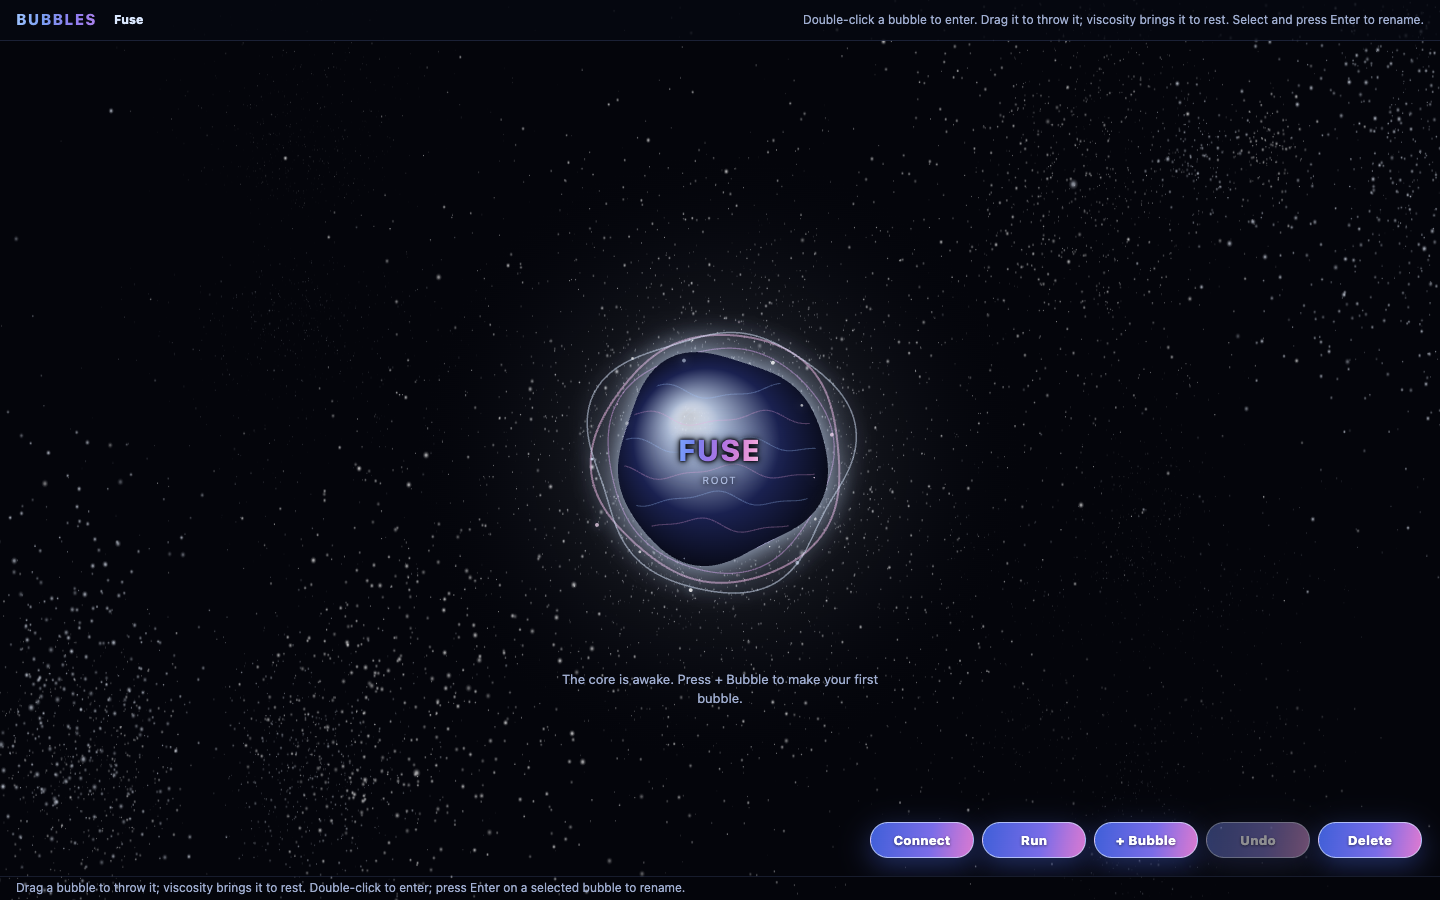
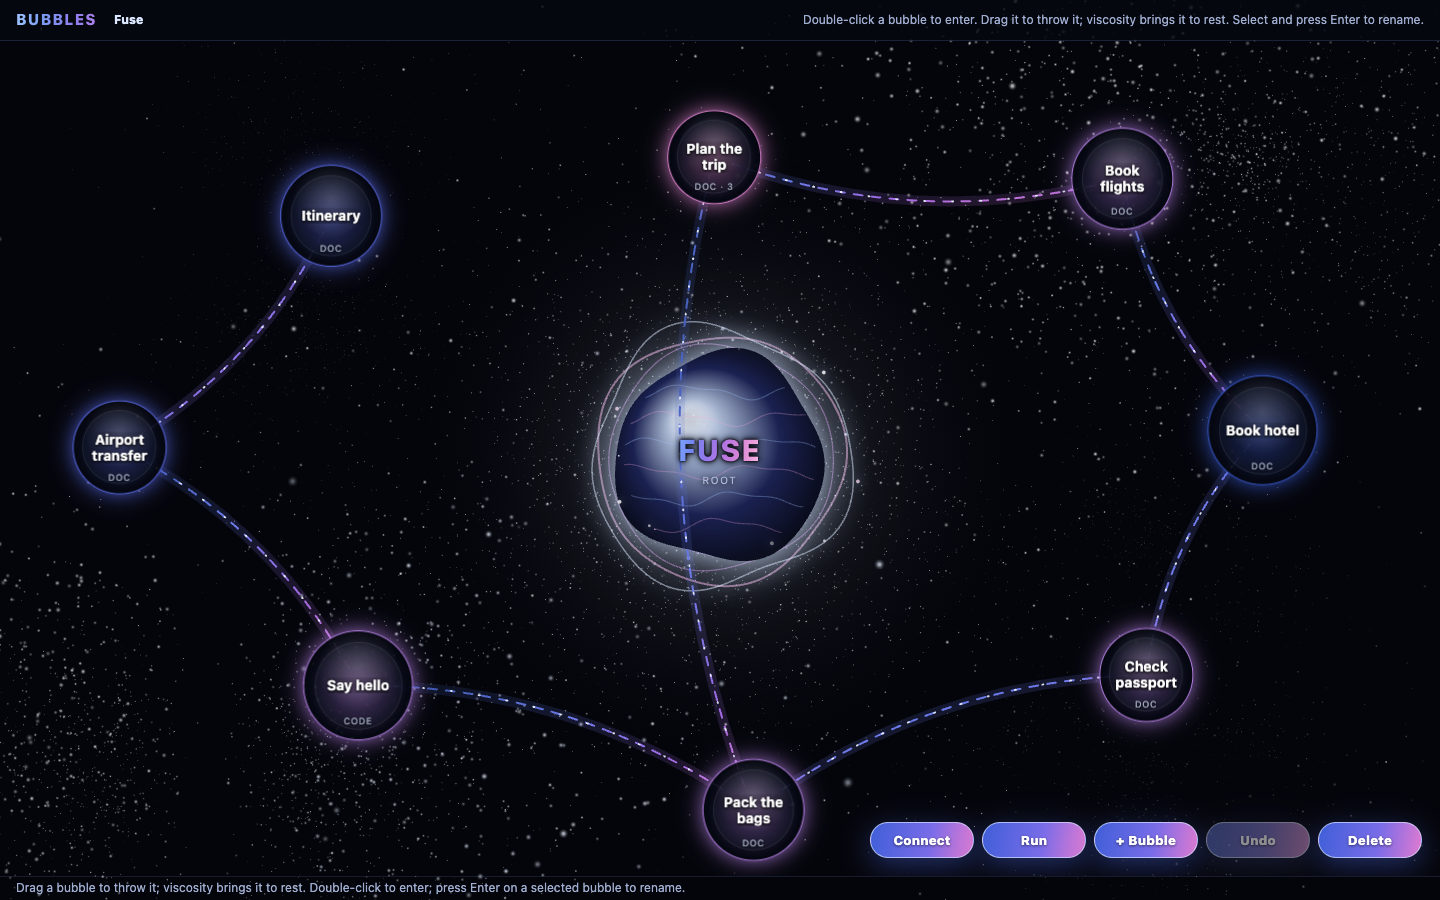
readme: lead with a populated canvas and the bootcamp credit

diff --git a/README.md b/README.md
@@ -1,3 +1,9 @@
+![Bubbles: a canvas of connected bubbles, one bubble holding three more](docs/workshop-screenshot.png)
+
+**Bubbles by Anthony M. Pesendorfer**, built at the [ACRYL Bootcamp](https://github.com/acrylworkshop/bootcamp-2026-11-20), Vienna, 20 November 2026.
+
+---
+
 # Bubbles
 
 A local canvas where every bubble is a note or a shell command, and pressing Run walks them in the order you drew.
